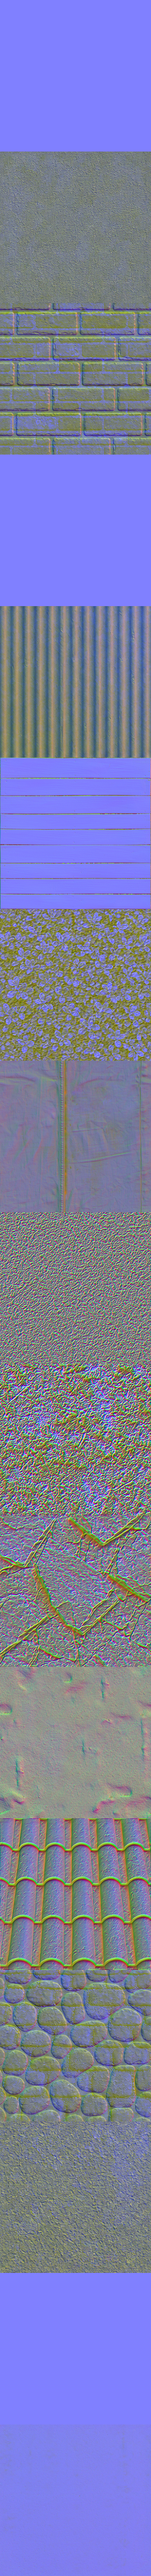
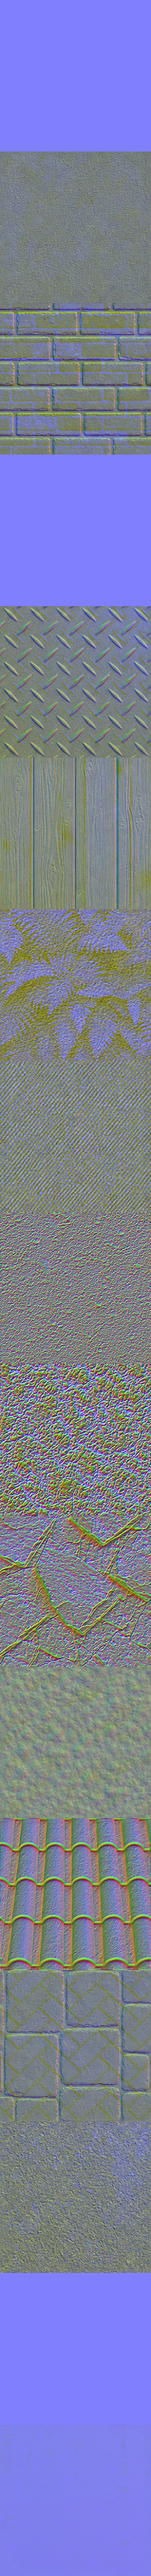
Bake variety atlas onto wood, fabric, snow, and remapped scenery.
Adds a third 4x4 sheet so WOOD/FABRIC/SNOW leave the Poly Haven scans,
and remaps metal/foliage/sand/grass/stone to unused distinctive tiles.
ASPHALT stays the racing-surface photoscan. Pack verify: 7843 KB / 8 MB.

diff --git a/assets/pack/CREDITS.md b/assets/pack/CREDITS.md
@@ -8,16 +8,16 @@ Powered by Poly Haven.
 |---|---|---|---|---|
 | material | concrete | Apex 26 | Apex26-Procedural | generated:assets/atlases/atlas-arch-albedo.png#2,0 |
 | material | brick | Apex 26 | Apex26-Procedural | generated:assets/atlases/atlas-arch-albedo.png#1,0 |
-| material | metal | Apex 26 | Apex26-Procedural | generated:assets/atlases/atlas-arch-albedo.png#0,2 |
-| material | wood | Poly Haven contributors | CC0 | polyhaven:wood_planks |
-| material | foliage | Apex 26 | Apex26-Procedural | generated:assets/atlases/atlas-nature-albedo.png#0,0 |
-| material | fabric | Poly Haven contributors | CC0 | polyhaven:denim_fabric |
-| material | sand | Apex 26 | Apex26-Procedural | generated:assets/atlases/atlas-nature-albedo.png#0,3 |
-| material | grass | Apex 26 | Apex26-Procedural | generated:assets/atlases/atlas-nature-albedo.png#2,0 |
+| material | metal | Apex 26 | Apex26-Procedural | generated:assets/atlases/atlas-arch-albedo.png#2,2 |
+| material | wood | Apex 26 | Apex26-Procedural | generated:assets/atlases/atlas-variety-albedo.png#0,0 |
+| material | foliage | Apex 26 | Apex26-Procedural | generated:assets/atlases/atlas-nature-albedo.png#1,0 |
+| material | fabric | Apex 26 | Apex26-Procedural | generated:assets/atlases/atlas-variety-albedo.png#2,0 |
+| material | sand | Apex 26 | Apex26-Procedural | generated:assets/atlases/atlas-nature-albedo.png#1,3 |
+| material | grass | Apex 26 | Apex26-Procedural | generated:assets/atlases/atlas-nature-albedo.png#2,1 |
 | material | rock | Apex 26 | Apex26-Procedural | generated:assets/atlases/atlas-nature-albedo.png#1,2 |
-| material | snow | Poly Haven contributors | CC0 | polyhaven:snow_02 |
+| material | snow | Apex 26 | Apex26-Procedural | generated:assets/atlases/atlas-variety-albedo.png#0,1 |
 | material | roof | Apex 26 | Apex26-Procedural | generated:assets/atlases/atlas-arch-albedo.png#2,1 |
-| material | stone | Apex 26 | Apex26-Procedural | generated:assets/atlases/atlas-arch-albedo.png#0,1 |
+| material | stone | Apex 26 | Apex26-Procedural | generated:assets/atlases/atlas-arch-albedo.png#1,1 |
 | material | rust | Apex 26 | Apex26-Procedural | generated:assets/atlases/atlas-arch-albedo.png#3,2 |
 | material | asphalt | Poly Haven contributors | CC0 | polyhaven:asphalt_track |
 | model | kenney_construction-barrier | Kenney | CC0 | kenney:city-kit-roads |

diff --git a/assets/atlases/README.md b/assets/atlases/README.md
@@ -9,11 +9,12 @@ is **Apex26-Procedural**.
 
 | file | role |
 |---|---|
-| `atlas-arch-albedo.png` | masonry, metal, roof, rust, cobbles |
+| `atlas-arch-albedo.png` | masonry, metal, roof, rust, cobbles, herringbone |
 | `atlas-arch-normal.png` | matching architectural relief |
 | `atlas-nature-albedo.png` | foliage, grass, sand, rock |
 | `atlas-organic-normal.png` | grain / pore detail for organic slots |
+| `atlas-variety-albedo.png` | wood, cloth, snow, and extra hard-surface tiles |
+| `atlas-variety-normal.png` | matching grain / weave / drift relief |
 
 Tile → `MAT` mapping lives in `ATLAS_PRESETS.generated` in `tools/assets.mjs`.
-ASPHALT, WOOD, FABRIC, and SNOW stay on the Poly Haven photoscans — these
-sheets have no tarmac, wood albedo, cloth, or snow.
+**ASPHALT stays on the Poly Haven photoscan** — these sheets have no tarmac.

diff --git a/docs/research/ASSET-API-RESEARCH.md b/docs/research/ASSET-API-RESEARCH.md
@@ -486,7 +486,9 @@ the pack lands asynchronously. That is the same trick `setEnvCube` already used.
 - **`bake-atlas`** (2026-08). Slices a 4×4 albedo/normal sheet onto named MAT
   layers (`--preset generated` or `--map BRICK=1,0`). Mean-normalises, heals
   tile seams, derives a normal from luminance when the sheet is albedo-only,
-  and leaves unmapped slots (ASPHALT / WOOD / FABRIC / SNOW) on the photoscans.
+  and leaves unmapped slots (ASPHALT by default) on the photoscans. The
+  committed `generated` preset now also covers WOOD / FABRIC / SNOW from
+  `atlas-variety-*.png`.
   Sources: `assets/atlases/`.
 - **KTX2.** The pack is ~5.4 MB against an 8 MB budget. The VRAM argument in §3.2
   still stands for a full-resolution scan bake — revisit at that point, not now.

diff --git a/.claude/skills/asset-pack/references/workflow.md b/.claude/skills/asset-pack/references/workflow.md
@@ -46,7 +46,7 @@ WGX is a device/feature miss, not "WGX has no arrays."
    survive.
 
 4. **Slice a generated 4×4 atlas** onto scenery MAT slots (keeps the
-   Poly Haven ASPHALT / WOOD / FABRIC / SNOW layers):
+   Poly Haven ASPHALT racing-surface layer; every other slot is generated):
    ```sh
    node tools/assets.mjs bake-atlas --preset generated
    node tools/assets.mjs verify
